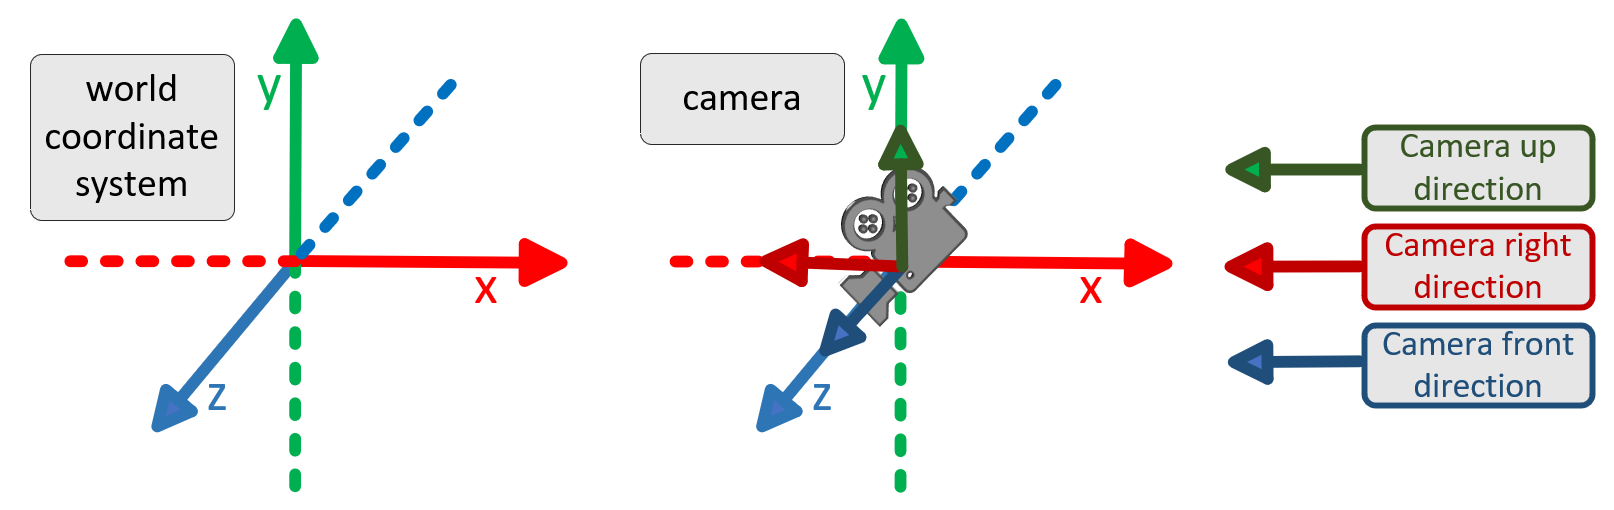
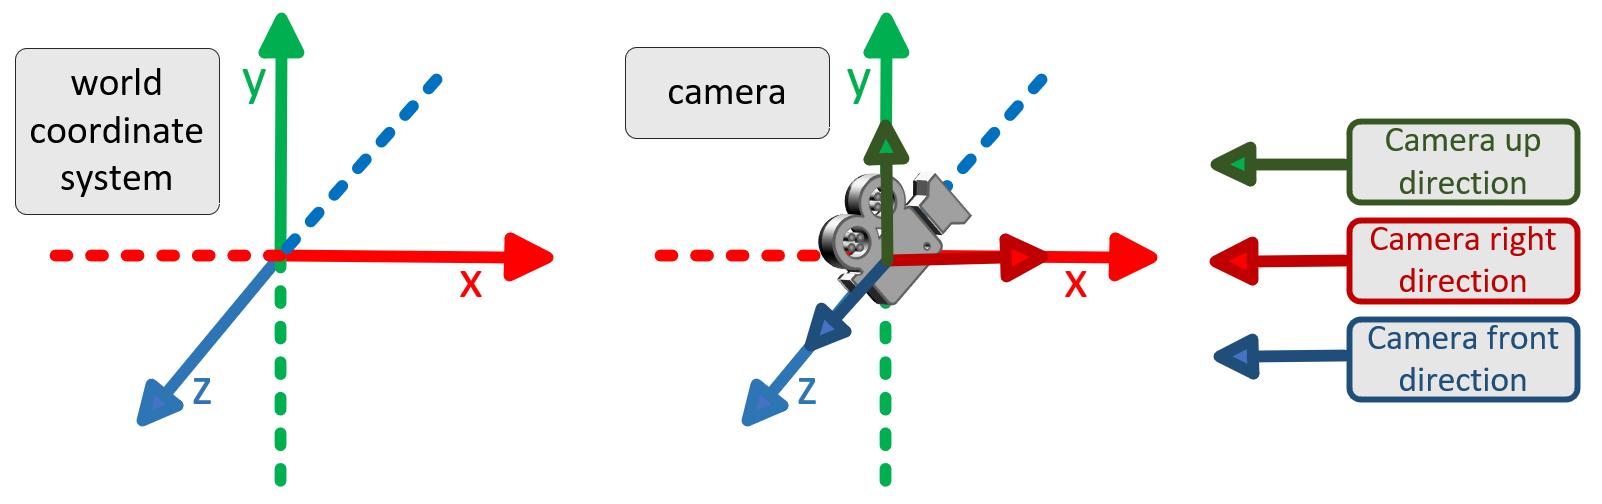
change the coordinate system to OpenGL

diff --git a/docs/medical-vis/Development_Manual/Code_Structure.md b/docs/medical-vis/Development_Manual/Code_Structure.md
@@ -14,9 +14,9 @@ aside: true
 
 <img src="/images/Development_Manual/Code_Structure_01.png" />
 
-- Image Coordinate System: For an image with width w and height h  (the resolution of the film), the pixel range in the image is [0,0] to [w−1,h−1].
-- Raster Coordinate System (for imaging film): The range of the raster coordinate system is [0,0] to [w,h]. A pixel [i,j] in the raster coordinate system corresponds to the range [i,j] to [i+1,j+1].
-- Screen Coordinate System: The range of the screen coordinate system is [-w/h, -1] to [w/h,1].
+- Image Coordinate System: For an image with width w and height h  (the resolution of the film), the pixel range in the image is $[0,0]$ to $[w−1,h−1]$.
+- Raster Coordinate System (for imaging film): The range of the raster coordinate system is $[0,0]$ to $[w,h]$. A pixel $[i,j]$ in the raster coordinate system corresponds to the range $[i,j]$ to $[i+1,j+1]$.
+- Screen Coordinate System: The range of the screen coordinate system is $[-w/h, -1]$ to $[w/h,1]$.
 
 <img src="/images/Development_Manual/Code_Structure_02.png" />
 
@@ -24,8 +24,46 @@ In the image space, the vertical coordinate has lower values at the top and high
 Therefore, the Screen2Raster transformation performs coordinate flipping in both the vertical and horizontal directions.
 
 Screen2Raster transformation: 
-Horizontal coordinate, Transforms the range [w/h,−w/h] to [0, w], where w/h maps to 0, and -w/h maps to w.
-Vertical coordinate, Transforms the range [-1, 1] to [h,0], where −1 maps to h and 1 maps to 0.
+Horizontal coordinate, Transforms the range $[w/h,−w/h]$ to $[0, w]$, where $w/h$ maps to $0$, and $-w/h$ maps to $w$.
+Vertical coordinate, Transforms the range $[-1, 1]$ to $[h,0]$, where $−1$ maps to $h$ and $1$ maps to $0$.
+
+The near plane in NDC is $-1$, and the far plane in NDC is $+1$. The range of $z$ is also $[-1,+1]$ in Raster plane.
+
+## Some concept in OpenGL
+
+In glm::perspective function, given the aspect, distance of near and far plane ($f > n > 0$), the martix is:
+
+```besh
+[ 2*n/(r-l)   0          (r+l)/(r-l)   0         ]
+[ 0           2*n/(t-b)  (t+b)/(t-b)   0         ]
+[ 0           0          -(f+n)/(f-n)  -2*f*n/(f-n) ]
+[ 0           0          -1            0         ]
+```
+when $l = -r$ and $b = -t$：
+```besh
+[ n/r   0     0            0         ]
+[ 0     n/t   0            0         ]
+[ 0     0    -(f+n)/(f-n)  -2*f*n/(f-n) ]
+[ 0     0    -1            0         ]
+```
+or using the FOV version, set $thf = \tan(0.5\cdot \text{fov}_y)$, aspect=w/h (set as ap):
+```besh
+[ 1/(ap*thf)   0       0            0           ]
+[ 0          1/thf     0            0           ]
+[ 0            0     -(f+n)/(f-n)  -2*f*n/(f-n) ]
+[ 0            0      -1            0           ]
+```
+The last line has a negative sign, which means in camera coordinate system, $[-n,-f]$ is map to $[-1, 1]$. Within the visible range (perspective projection cone), $(x,y>0)$ means they still greater than $0$ in NDC. 
+
+In Crystal, the Perspective function is ($f > n > 0$):
+```besh
+[ 1/(ap*thf)   0       0            0           ]
+[ 0          1/thf     0            0           ]
+[ 0            0     (f+n)/(f-n)  -2*f*n/(f-n) ]
+[ 0            0       1            0           ]
+```
+
+
 
 ## Volume Coordinate System
 
@@ -56,3 +94,24 @@ In the visualization space, the panoramic environment light is typically rotated
 <img src="/images/Development_Manual/Code_Structure_06.png" />
 
 **GLM .vs. Crystal**
+
+
+**Mitsuba .vs. Crystal**
+
+The camera coordinate system in Mitsuba differs from that used in Crystal. Specifically, they are both the right-handed, but the orientations of the x-axis and z-axis in Mitsuba are reversed compared to Crystal.
+
+
+
+
+
+
+
+
+
+
+
+
+
+
+
+
